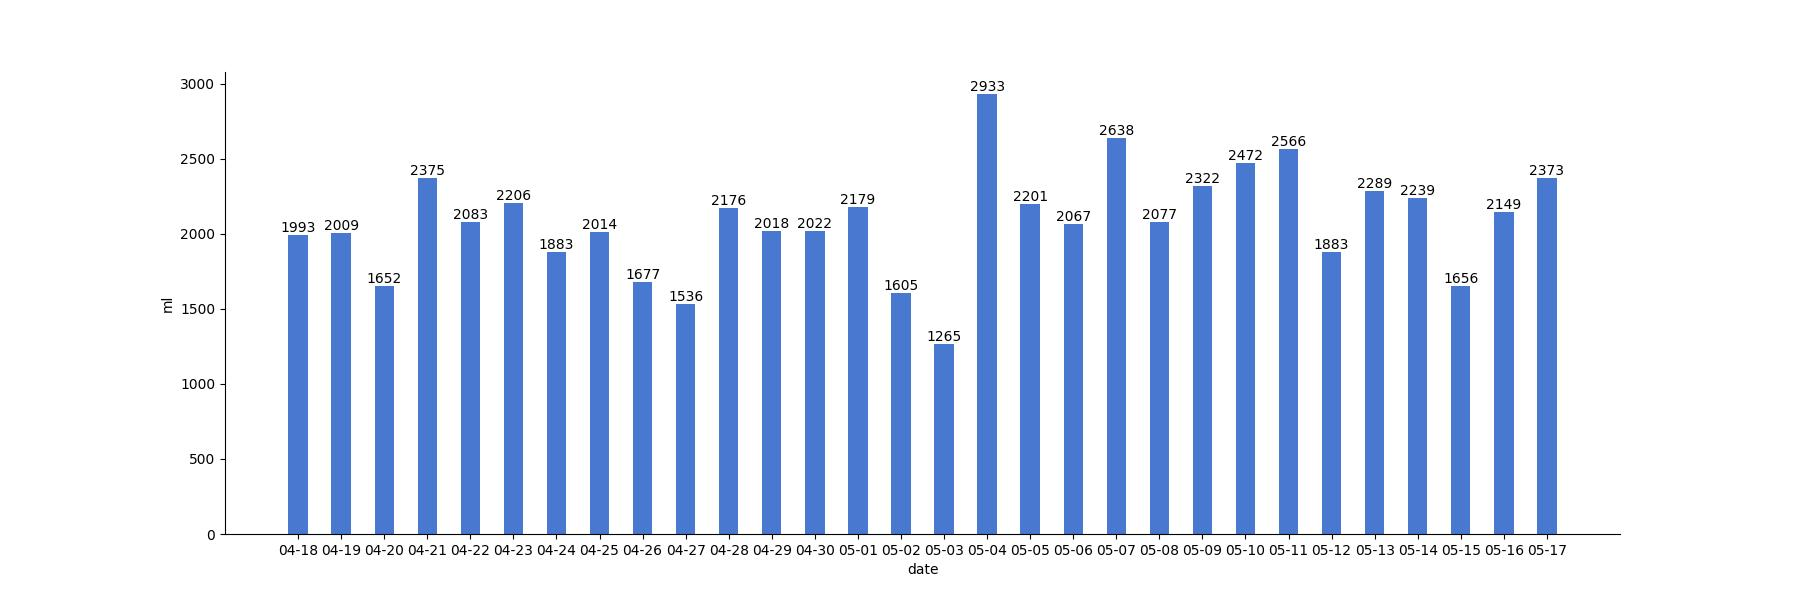
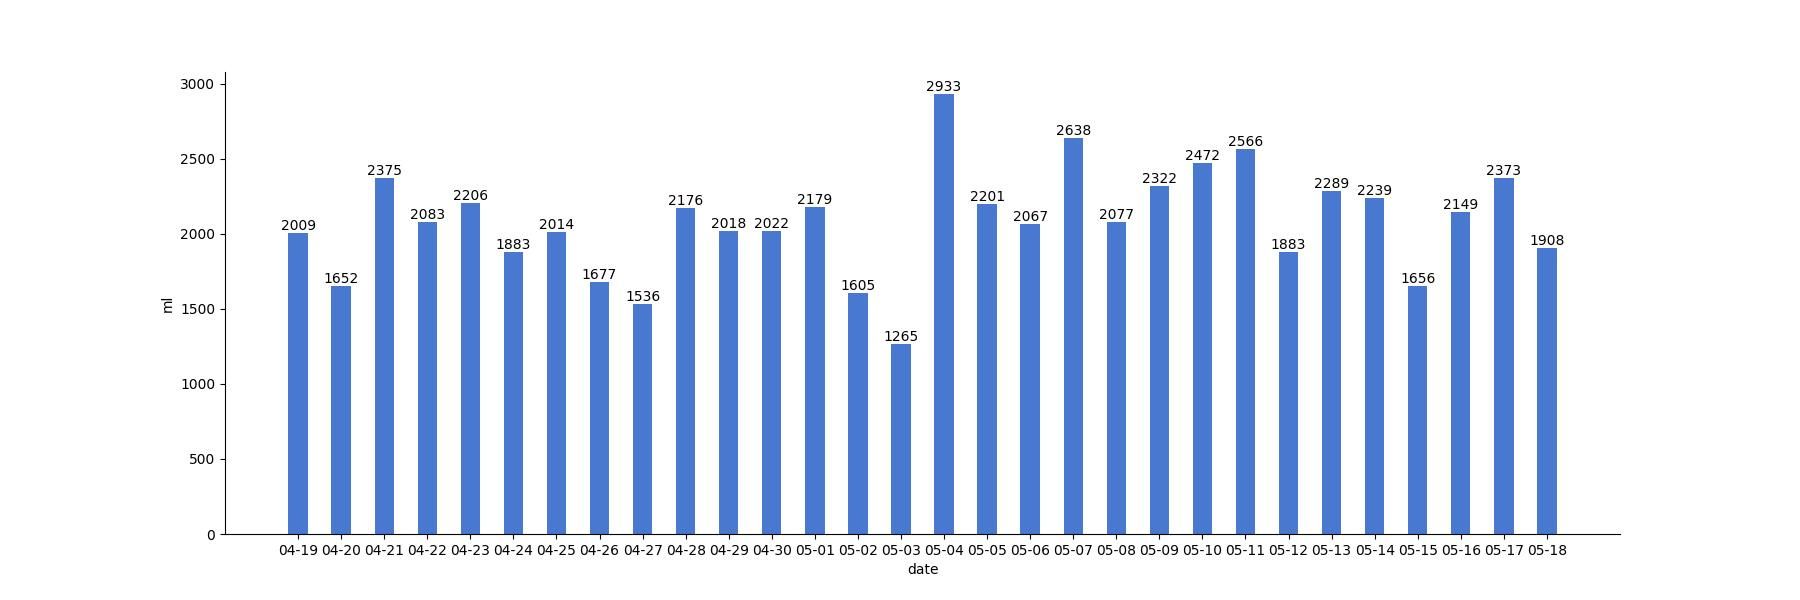
generated readme

diff --git a/README.md b/README.md
@@ -5,12 +5,12 @@
 
 | 今日总饮水量 | 每小时平均饮水量 |
 | :----: | :----: |
-| 1908 | 119 |
+| 78 | 78 |
 </div>
 
-| 日期 | 00:19:14 | 00:54:44 | 08:00:36 | 08:09:04 | 08:37:19 | 09:47:07 | 10:16:22 | 11:19:01 | 12:19:14 | 13:01:29 | 13:53:51 | 14:38:15 | 15:15:14 | 16:03:17 | 16:30:14 | 18:58:44 | 19:28:40 | 19:42:50 | 20:16:52 | 20:42:39 | 20:58:05 | 21:17:58 | 21:47:54 | 22:18:35 | 22:49:28 | 23:19:47 | 23:49:20 |
-| :----: | :----: | :----: | :----: | :----: | :----: | :----: | :----: | :----: | :----: | :----: | :----: | :----: | :----: | :----: | :----: | :----: | :----: | :----: | :----: | :----: | :----: | :----: | :----: | :----: | :----: | :----: | :----: |
-| 2022-05-18 | 39 | 62 | 78 | 85 | 66 | 74 | 31 | 50 | 200 | 18 | 77 | 85 | 55 | 78 | 54 | 200 | 90 | 46 | 81 | 36 | 128 | 37 | 47 | 64 | 47 | 28 | 52 |
+| 日期 | 00:21:32 |
+| :----: | :----: |
+| 2022-05-19 | 78 |
 
 # 近30日饮水数据
 
@@ -19,8 +19,12 @@
 
 | 总饮水量 | 日均饮水量 |
 | :----: | :----: |
-| 62558 | 2085 |
+| 62473 | 2082 |
 </div>
+
+| 日期 | all | 00:19:14 | 00:54:44 | 08:00:36 | 08:09:04 | 08:37:19 | 09:47:07 | 10:16:22 | 11:19:01 | 12:19:14 | 13:01:29 | 13:53:51 | 14:38:15 | 15:15:14 | 16:03:17 | 16:30:14 | 18:58:44 | 19:28:40 | 19:42:50 | 20:16:52 | 20:42:39 | 20:58:05 | 21:17:58 | 21:47:54 | 22:18:35 | 22:49:28 | 23:19:47 | 23:49:20 |
+| :----: | :----: | :----: | :----: | :----: | :----: | :----: | :----: | :----: | :----: | :----: | :----: | :----: | :----: | :----: | :----: | :----: | :----: | :----: | :----: | :----: | :----: | :----: | :----: | :----: | :----: | :----: | :----: | :----: |
+| 2022-05-18 | 1908 | 39 | 62 | 78 | 85 | 66 | 74 | 31 | 50 | 200 | 18 | 77 | 85 | 55 | 78 | 54 | 200 | 90 | 46 | 81 | 36 | 128 | 37 | 47 | 64 | 47 | 28 | 52 |
 
 | 日期 | all | 00:42:03 | 08:01:02 | 08:53:18 | 09:35:08 | 10:12:40 | 10:40:09 | 11:45:46 | 12:15:13 | 13:04:07 | 13:35:08 | 13:52:59 | 14:53:48 | 15:17:09 | 15:49:33 | 16:20:46 | 17:13:01 | 17:43:22 | 18:13:41 | 19:13:45 | 19:43:35 | 20:13:42 | 20:44:14 | 21:39:02 | 22:12:06 | 22:42:20 | 23:12:07 | 23:47:53 |
 | :----: | :----: | :----: | :----: | :----: | :----: | :----: | :----: | :----: | :----: | :----: | :----: | :----: | :----: | :----: | :----: | :----: | :----: | :----: | :----: | :----: | :----: | :----: | :----: | :----: | :----: | :----: | :----: | :----: |
@@ -141,8 +145,4 @@
 | 日期 | all | 10:30:37 | 10:58:00 | 11:31:24 | 12:43:25 | 13:13:22 | 13:47:43 | 14:20:59 | 14:50:21 | 15:20:22 | 16:00:00 | 16:33:09 | 17:24:18 | 17:56:12 | 19:14:46 | 19:44:59 | 20:13:51 | 20:39:58 | 21:03:58 | 21:36:14 | 22:06:28 | 22:39:24 | 23:27:20 | 23:57:55 |
 | :----: | :----: | :----: | :----: | :----: | :----: | :----: | :----: | :----: | :----: | :----: | :----: | :----: | :----: | :----: | :----: | :----: | :----: | :----: | :----: | :----: | :----: | :----: | :----: | :----: |
 | 2022-04-18 | 1993 | 33 | 96 | 90 | 200 | 41 | 78 | 83 | 60 | 60 | 52 | 77 | 98 | 31 | 350 | 80 | 80 | 116 | 40 | 73 | 75 | 42 | 60 | 78 |
-
-| 日期 | all | 10:15:42 | 10:46:31 | 11:16:50 | 11:48:15 | 12:30:07 | 13:00:29 | 13:57:38 | 14:49:05 | 15:49:40 | 16:20:37 | 16:53:05 | 17:21:34 | 17:42:29 | 18:12:25 | 18:49:58 | 19:34:39 | 20:17:16 | 20:48:17 | 21:18:27 | 21:48:40 | 22:19:35 | 23:03:47 | 23:33:29 | 23:52:46 |
-| :----: | :----: | :----: | :----: | :----: | :----: | :----: | :----: | :----: | :----: | :----: | :----: | :----: | :----: | :----: | :----: | :----: | :----: | :----: | :----: | :----: | :----: | :----: | :----: | :----: | :----: |
-| 2022-04-17 | 1632 | 26 | 83 | 53 | 15 | 67 | 43 | 40 | 16 | 110 | 87 | 16 | 74 | 37 | 75 | 70 | 200 | 73 | 93 | 102 | 93 | 41 | 60 | 98 | 60 |
 
